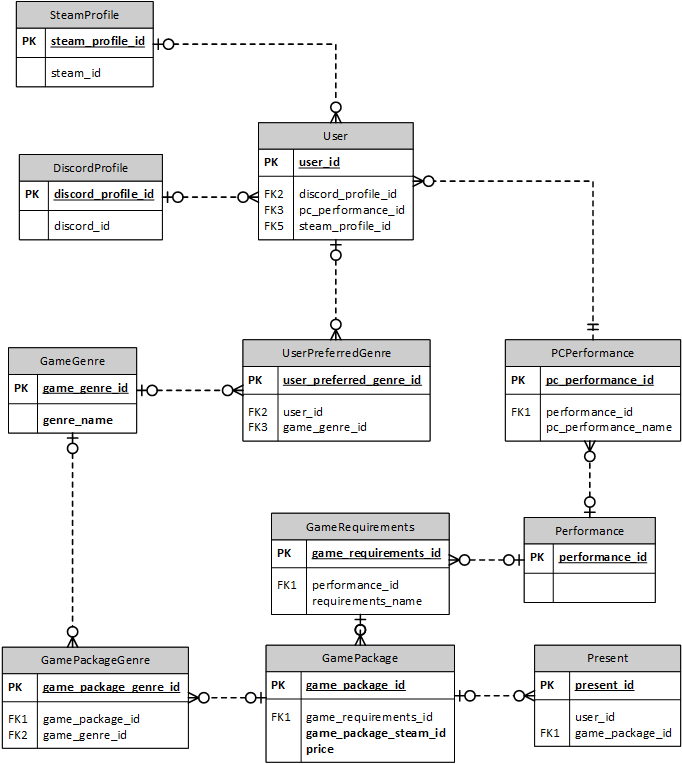
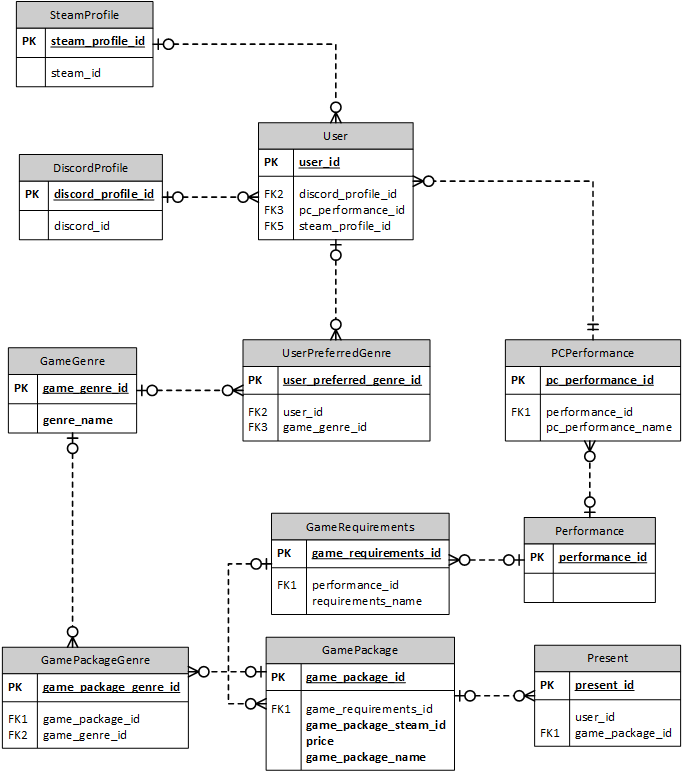
Add name field to database scheme and update the model

diff --git a/secretsanta/model/gamepackage.py b/secretsanta/model/gamepackage.py
@@ -1,4 +1,4 @@
-from peewee import PrimaryKeyField, ForeignKeyField, BigIntegerField, FloatField
+from peewee import PrimaryKeyField, ForeignKeyField, BigIntegerField, FloatField, TextField
 
 from .basemodel import BaseModel
 from .gamerequirements import GameRequirements
@@ -9,6 +9,7 @@ class GamePackage(BaseModel):
     requirements = ForeignKeyField(GameRequirements, column_name='game_requirements_id')
     steam_id = BigIntegerField(column_name='game_package_steam_id')
     price = FloatField(column_name='price')
+    name = TextField(column_name='game_package_name')
 
     class Meta:
         table_name = 'GamePackage'
